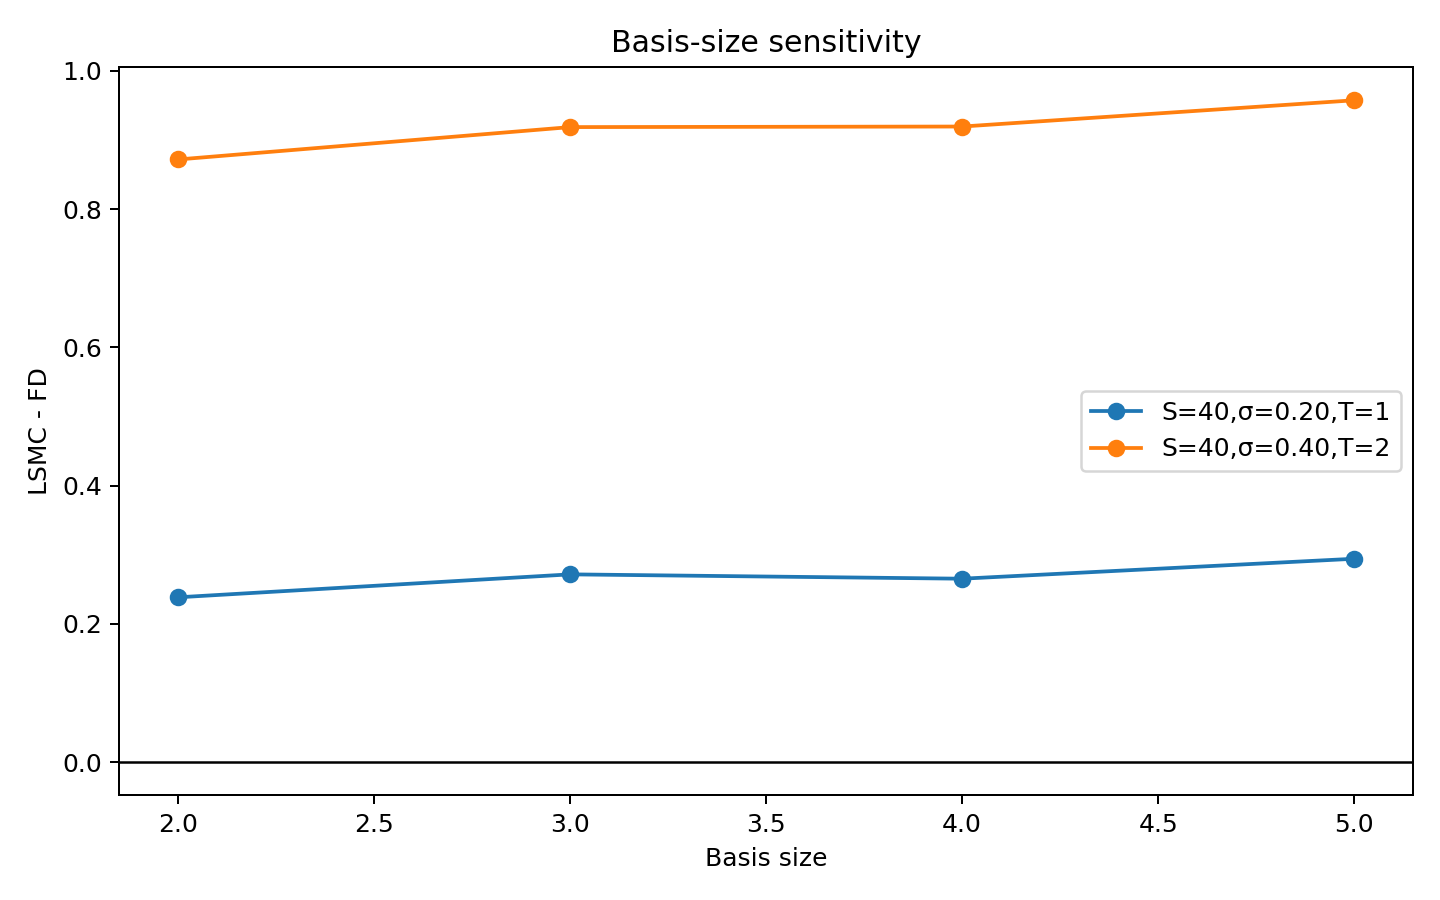
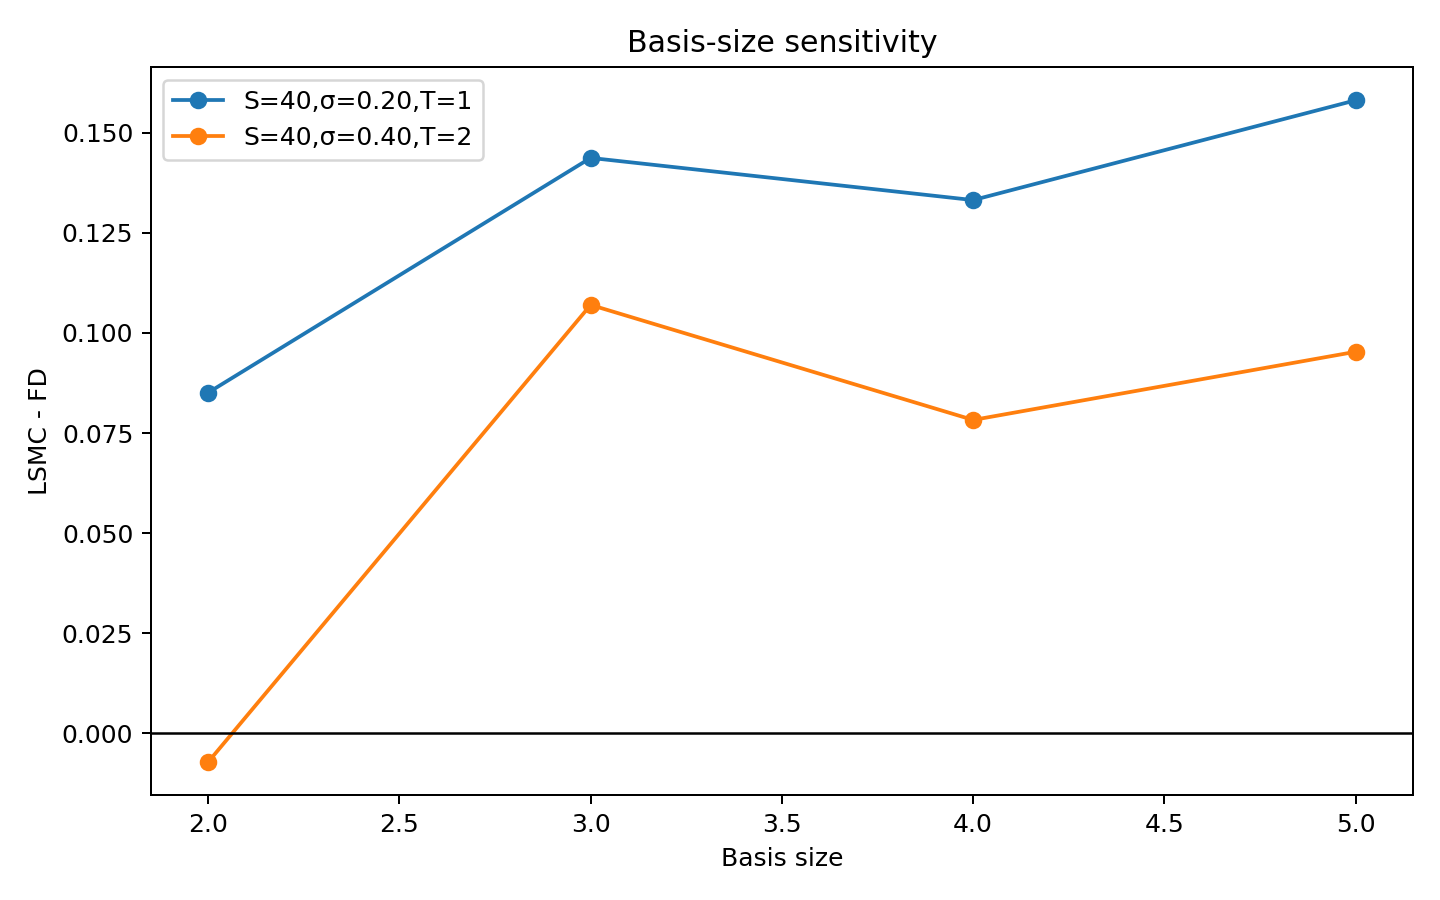
Reduce vanilla LSM bias with two-pass policy evaluation

diff --git a/src/LongstaffMethod/run_longstaff_vanilla.py b/src/LongstaffMethod/run_longstaff_vanilla.py
@@ -8,7 +8,7 @@ import pandas as pd
 
 from basis import vanilla_put_basis
 from benchmarks import american_put_binomial_crr, american_put_implicit_fd, black_scholes_put
-from lsm_engine import fit_lsm
+from lsm_engine import LSMResult, fit_lsm
 from simulators import simulate_gbm_paths
 
 
@@ -48,9 +48,35 @@ def price_vanilla_lsm(
     dates_per_year: int = DEFAULT_DATES_PER_YEAR,
     basis_size: int = 4,
     seed: int = BASE_SEED,
+    split_policy: str = "two_pass",
 ):
     steps = int(round(maturity * dates_per_year))
-    sim = simulate_gbm_paths(
+    payoff_fn = lambda states, t: put_payoff(states, t, strike=STRIKE)
+    basis_fn = lambda states, t: vanilla_put_basis(states["spot"][:, t], strike=STRIKE, basis_size=basis_size)
+
+    if split_policy == "same_paths":
+        sim = simulate_gbm_paths(
+            s0=spot,
+            r=RISK_FREE,
+            sigma=sigma,
+            maturity=maturity,
+            steps=steps,
+            n_paths=paths,
+            seed=seed,
+            antithetic=True,
+        )
+        result, policy = fit_lsm(
+            states=sim.states,
+            payoff_fn=payoff_fn,
+            basis_fn=basis_fn,
+            exercise_mask_fn=always_exercisable,
+            r=RISK_FREE,
+            maturity=maturity,
+        )
+        diagnostics = {"split_policy": split_policy, "fit_seed": seed, "eval_seed": seed}
+        return sim, result, policy, diagnostics
+
+    fit_sim = simulate_gbm_paths(
         s0=spot,
         r=RISK_FREE,
         sigma=sigma,
@@ -60,21 +86,49 @@ def price_vanilla_lsm(
         seed=seed,
         antithetic=True,
     )
-    payoff_fn = lambda states, t: put_payoff(states, t, strike=STRIKE)
-    basis_fn = lambda states, t: vanilla_put_basis(states["spot"][:, t], strike=STRIKE, basis_size=basis_size)
-    result, policy = fit_lsm(
-        states=sim.states,
+    fit_result, policy = fit_lsm(
+        states=fit_sim.states,
         payoff_fn=payoff_fn,
         basis_fn=basis_fn,
         exercise_mask_fn=always_exercisable,
         r=RISK_FREE,
         maturity=maturity,
     )
-    return sim, result, policy
+    eval_seed = seed + 7919
+    eval_sim = simulate_gbm_paths(
+        s0=spot,
+        r=RISK_FREE,
+        sigma=sigma,
+        maturity=maturity,
+        steps=steps,
+        n_paths=paths,
+        seed=eval_seed,
+        antithetic=True,
+    )
+    eval_price, eval_stderr, stopping_times, discounted = policy.evaluate(eval_sim.states, r=RISK_FREE)
+    result = LSMResult(
+        price=eval_price,
+        stderr=eval_stderr,
+        discounted_cashflows=discounted,
+        stopping_times=stopping_times,
+        stopping_payoffs=np.zeros_like(stopping_times, dtype=float),
+        exercise_summary=fit_result.exercise_summary,
+        regression_steps=fit_result.regression_steps,
+    )
+    diagnostics = {
+        "split_policy": split_policy,
+        "fit_seed": seed,
+        "eval_seed": eval_seed,
+        "fit_price": fit_result.price,
+        "fit_stderr": fit_result.stderr,
+        "eval_price": eval_price,
+        "eval_stderr": eval_stderr,
+    }
+    return eval_sim, result, policy, diagnostics
 
 
-def benchmark_row(spot: float, sigma: float, maturity: float, seed: int = BASE_SEED) -> tuple[dict[str, float], list[dict[str, float]]]:
-    _, lsm_result, _ = price_vanilla_lsm(spot=spot, sigma=sigma, maturity=maturity, seed=seed)
+def benchmark_row(spot: float, sigma: float, maturity: float, seed: int = BASE_SEED) -> tuple[dict[str, float], list[dict[str, float]], dict[str, float]]:
+    _, lsm_result, _, diagnostics = price_vanilla_lsm(spot=spot, sigma=sigma, maturity=maturity, seed=seed)
     european = black_scholes_put(spot, STRIKE, RISK_FREE, sigma, maturity)
     steps = int(round(maturity * DEFAULT_DATES_PER_YEAR))
     american_fd = american_put_implicit_fd(spot, STRIKE, RISK_FREE, sigma, maturity, exercise_steps=steps)
@@ -92,11 +146,13 @@ def benchmark_row(spot: float, sigma: float, maturity: float, seed: int = BASE_S
         "fd_early_exercise_premium": american_fd - european,
         "american_put_lsmc": lsm_result.price,
         "lsmc_stderr": lsm_result.stderr,
+        "lsmc_fit_price": diagnostics.get("fit_price", lsm_result.price),
+        "lsmc_fit_minus_eval": diagnostics.get("fit_price", lsm_result.price) - lsm_result.price,
         "lsmc_early_exercise_premium": lsm_result.price - european,
         "lsmc_premium_minus_fd_premium": (lsm_result.price - european) - (american_fd - european),
         "american_put_crr": american_crr,
     }
-    return row, lsm_result.exercise_summary
+    return row, lsm_result.exercise_summary, diagnostics
 
 
 def run_benchmark_table() -> pd.DataFrame:
@@ -105,7 +161,8 @@ def run_benchmark_table() -> pd.DataFrame:
     for spot in SPOTS:
         for sigma in SIGMAS:
             for maturity in MATURITIES:
-                row, summaries = benchmark_row(spot, sigma, maturity)
+                row, summaries, diagnostics = benchmark_row(spot, sigma, maturity)
+                row.update({k: v for k, v in diagnostics.items() if isinstance(v, (int, float, str))})
                 rows.append(row)
                 for summary in summaries:
                     boundary_rows.append(
@@ -129,7 +186,13 @@ def run_in_vs_out_sample() -> pd.DataFrame:
         for repeat in range(3):
             seed_fit = BASE_SEED + 1000 * case_id + repeat
             seed_eval = BASE_SEED + 2000 * case_id + repeat
-            _, in_result, policy = price_vanilla_lsm(spot=spot, sigma=sigma, maturity=maturity, seed=seed_fit)
+            _, in_result, policy, diagnostics = price_vanilla_lsm(
+                spot=spot,
+                sigma=sigma,
+                maturity=maturity,
+                seed=seed_fit,
+                split_policy="same_paths",
+            )
             steps = int(round(maturity * DEFAULT_DATES_PER_YEAR))
             out_sim = simulate_gbm_paths(
                 s0=spot,
@@ -154,6 +217,8 @@ def run_in_vs_out_sample() -> pd.DataFrame:
                     "out_of_sample_price": out_price,
                     "out_of_sample_stderr": out_stderr,
                     "difference": in_result.price - out_price,
+                    "diagnostic_mode": "same_path_fit_vs_independent_eval",
+                    "fit_policy": diagnostics.get("split_policy", "same_paths"),
                 }
             )
     df = pd.DataFrame(rows)
@@ -170,7 +235,7 @@ def run_paths_sensitivity() -> pd.DataFrame:
             spot, STRIKE, RISK_FREE, sigma, maturity, exercise_steps=int(round(maturity * DEFAULT_DATES_PER_YEAR))
         )
         for paths in path_counts:
-            _, result, _ = price_vanilla_lsm(
+            _, result, _, _ = price_vanilla_lsm(
                 spot=spot,
                 sigma=sigma,
                 maturity=maturity,
@@ -200,7 +265,7 @@ def run_timestep_sensitivity() -> pd.DataFrame:
     rows = []
     for spot, sigma, maturity in cases:
         for dates_per_year in dates_per_year_list:
-            _, result, _ = price_vanilla_lsm(
+            _, result, _, _ = price_vanilla_lsm(
                 spot=spot,
                 sigma=sigma,
                 maturity=maturity,
@@ -236,7 +301,7 @@ def run_basis_sensitivity() -> pd.DataFrame:
             spot, STRIKE, RISK_FREE, sigma, maturity, exercise_steps=int(round(maturity * DEFAULT_DATES_PER_YEAR))
         )
         for basis_size in basis_sizes:
-            _, result, _ = price_vanilla_lsm(
+            _, result, _, _ = price_vanilla_lsm(
                 spot=spot,
                 sigma=sigma,
                 maturity=maturity,
@@ -270,7 +335,7 @@ def run_seed_sensitivity() -> pd.DataFrame:
         case_prices = []
         seeds = [BASE_SEED + i for i in range(5)]
         for seed in seeds:
-            _, result, _ = price_vanilla_lsm(spot=spot, sigma=sigma, maturity=maturity, seed=seed)
+            _, result, _, _ = price_vanilla_lsm(spot=spot, sigma=sigma, maturity=maturity, seed=seed)
             case_prices.append(result.price)
             rows.append(
                 {

diff --git a/src/LongstaffMethod/lsm_engine.py b/src/LongstaffMethod/lsm_engine.py
@@ -17,6 +17,9 @@ class LSMRegressionStep:
     time_index: int
     coefficients: Array
     n_regression_paths: int
+    condition_number: float
+    continuation_mean: float
+    intrinsic_mean: float
 
 
 @dataclass
@@ -84,11 +87,24 @@ def fit_lsm(
     exercise_mask_fn: ExerciseMaskFn,
     r: float,
     maturity: float,
+    regression_path_mask: Array | None = None,
+    pricing_path_mask: Array | None = None,
+    min_regression_paths: int = 200,
 ) -> tuple[LSMResult, FittedLSMPolicy]:
     n_paths, n_steps_plus_one = next(iter(states.values())).shape
     steps = n_steps_plus_one - 1
     dt = maturity / steps
     discount = np.exp(-r * dt)
+
+    if regression_path_mask is None:
+        regression_path_mask = np.ones(n_paths, dtype=bool)
+    if pricing_path_mask is None:
+        pricing_path_mask = np.ones(n_paths, dtype=bool)
+
+    regression_path_mask = np.asarray(regression_path_mask, dtype=bool)
+    pricing_path_mask = np.asarray(pricing_path_mask, dtype=bool)
+    if regression_path_mask.shape != (n_paths,) or pricing_path_mask.shape != (n_paths,):
+        raise ValueError("path masks must have shape (n_paths,)")
 
     payoffs = np.column_stack([payoff_fn(states, t) for t in range(n_steps_plus_one)])
     continuation_cf = payoffs[:, -1].copy()
@@ -103,16 +119,32 @@ def fit_lsm(
         continuation_cf[alive] *= discount
         eligible = exercise_mask_fn(states, t) & alive
         intrinsic = payoffs[:, t]
-        itm = eligible & (intrinsic > 0.0)
+        regression_itm = eligible & regression_path_mask & (intrinsic > 0.0)
 
-        if np.any(itm):
-            x = basis_fn(states, t)[itm]
-            y = continuation_cf[itm]
+        beta: Array | None = None
+        continuation_all: Array | None = None
+        if int(regression_itm.sum()) >= min_regression_paths:
+            basis_all = basis_fn(states, t)
+            x = basis_all[regression_itm]
+            y = continuation_cf[regression_itm]
             beta, *_ = np.linalg.lstsq(x, y, rcond=None)
+            continuation_all = basis_all @ beta
             regression_map[t] = beta
-            continuation = x @ beta
-            exercise_now_local = intrinsic[itm] >= continuation
-            exercise_idx = np.where(itm)[0][exercise_now_local]
+            regression_steps.append(
+                LSMRegressionStep(
+                    time_index=t,
+                    coefficients=beta,
+                    n_regression_paths=int(regression_itm.sum()),
+                    condition_number=float(np.linalg.cond(x)),
+                    continuation_mean=float(np.mean(continuation_all[regression_itm])),
+                    intrinsic_mean=float(np.mean(intrinsic[regression_itm])),
+                )
+            )
+
+        pricing_itm = eligible & pricing_path_mask & (intrinsic > 0.0)
+        if beta is not None and continuation_all is not None and np.any(pricing_itm):
+            exercise_now_local = intrinsic[pricing_itm] >= continuation_all[pricing_itm]
+            exercise_idx = np.where(pricing_itm)[0][exercise_now_local]
             if exercise_idx.size > 0:
                 continuation_cf[exercise_idx] = intrinsic[exercise_idx]
                 alive[exercise_idx] = False
@@ -129,13 +161,6 @@ def fit_lsm(
                         "boundary_mean": float(np.mean(spot)),
                     }
                 )
-            regression_steps.append(
-                LSMRegressionStep(
-                    time_index=t,
-                    coefficients=beta,
-                    n_regression_paths=int(itm.sum()),
-                )
-            )
 
     continuation_cf[alive] *= discount
     discounted = continuation_cf
